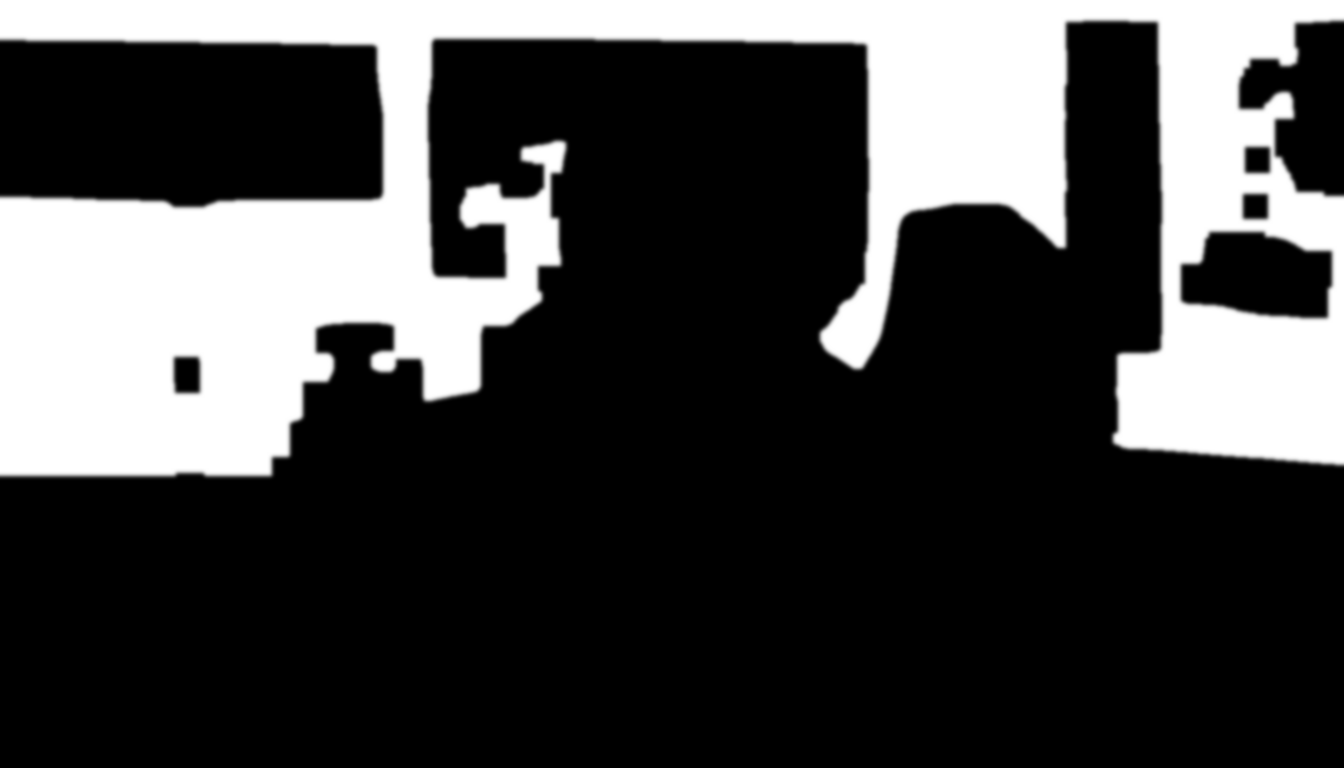
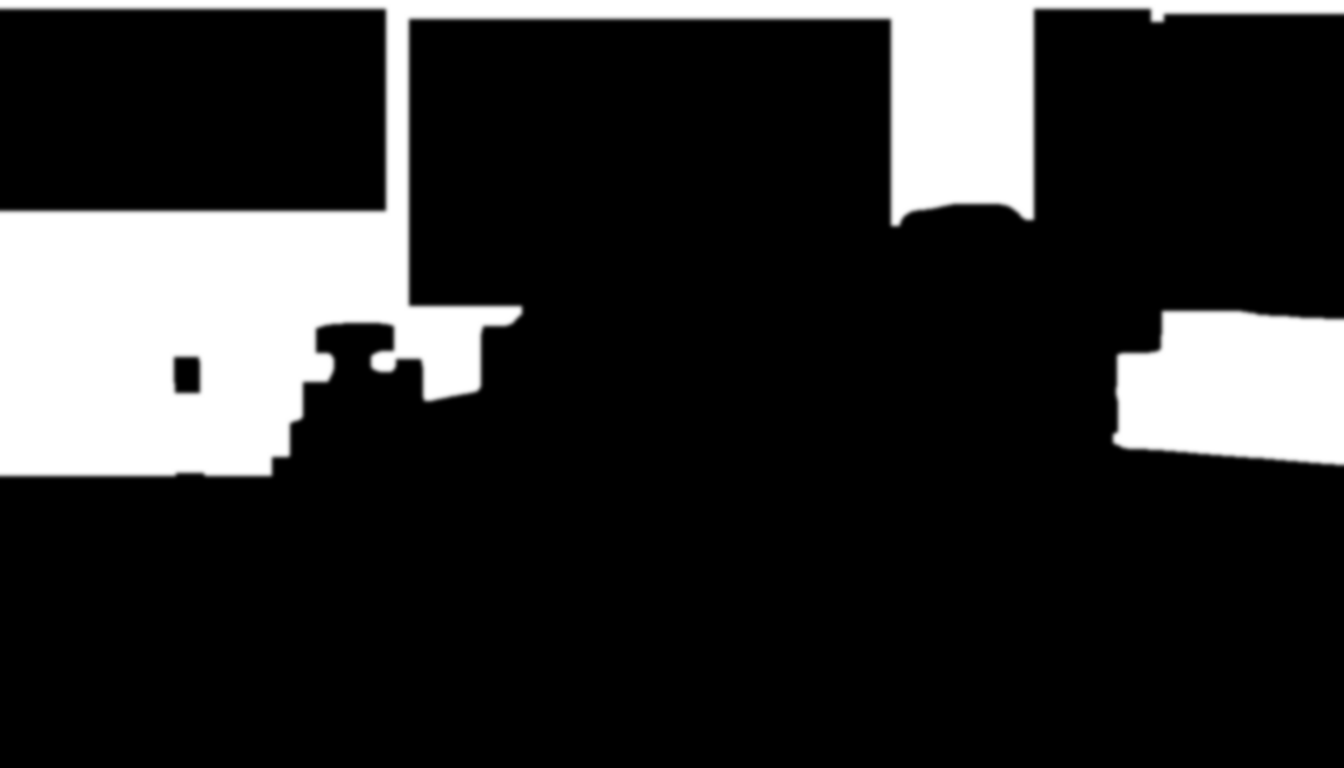
Anon: 4 files (4 modified)

Changed region(s): [[0.0, 0.0, 0.6875, 0.5], [0.75, 0.0, 1.0, 0.4375]]

diff --git a/Anon/tools/wall_mask.py b/Anon/tools/wall_mask.py
@@ -62,6 +62,23 @@ def person_mask(img_bgr: np.ndarray) -> np.ndarray:
     return cv2.resize(probs.astype(np.float32), (w, h))
 
 
+# Screens and hardware, read off a coordinate grid on the approved master.
+#
+# Hard-coded on purpose. This runs once, on one locked image, and a retoucher
+# masking a specific plate would do exactly this. The saturation/luminance
+# heuristic cannot separate them: the right-hand screen is desaturated and
+# mid-bright, so it passed the "wall" test and would have been painted over
+# with walnut - which is precisely the kind of damage this phase must not do.
+#
+# (x0, y0, x1, y1) in master-frame pixels, 1344x768.
+EXCLUDE_RECTS = [
+    (0, 15, 380, 205),        # left monitor, dark panel
+    (415, 25, 885, 300),      # centre monitor, blue content
+    (1040, 15, 1145, 275),    # speaker / tower
+    (1170, 20, 1344, 305),    # right monitor, the AI figure
+]
+
+
 def build(img_bgr: np.ndarray,
           sat_max: int = 46,
           val_lo: int = 70,
@@ -78,6 +95,11 @@ def build(img_bgr: np.ndarray,
 
     # Foreground band: desk, gear, hands. Nearer the lens, never wall.
     wall[int(h * bottom_keep):, :] = 0
+
+    # Screens and hardware. Excluded by explicit geometry, not by heuristic.
+    for (ex0, ey0, ex1, ey1) in EXCLUDE_RECTS:
+        pad = 6
+        wall[max(ey0 - pad, 0):ey1 + pad, max(ex0 - pad, 0):ex1 + pad] = 0
 
     # Person, generously grown. Bigger than the silhouette on purpose - hair is
     # where a generated texture would betray itself.

diff --git a/Anon/src/presenter/ui.py b/Anon/src/presenter/ui.py
@@ -210,7 +210,7 @@ class DropdownBar:
 
     def _draw_head(self, frame, menu: Menu) -> None:
         x, y, w, h = menu.head_rect()
-        self._panel(frame, (x, y, w, h), BG_OPEN if menu.open else BG)
+        _panel(frame, (x, y, w, h), BG_OPEN if menu.open else BG)
         cv2.rectangle(frame, (x, y), (x + w - 1, y + h - 1), EDGE, 1, cv2.LINE_AA)
         cv2.putText(frame, menu.title.upper(), (x + 10, y + 13),
                     FONT, 0.32, TITLE, 1, cv2.LINE_AA)
@@ -224,12 +224,12 @@ class DropdownBar:
 
     def _draw_list(self, frame, menu: Menu) -> None:
         x, y, w, h = menu.x, menu.y + menu.HEAD, menu.width, menu.ROW * len(menu.options)
-        self._panel(frame, (x, y, w, h), BG, alpha=0.94)
+        _panel(frame, (x, y, w, h), BG, alpha=0.94)
         cv2.rectangle(frame, (x, y), (x + w - 1, y + h - 1), EDGE, 1, cv2.LINE_AA)
         for i, option in enumerate(menu.options):
             rx, ry, rw, rh = menu.row_rect(i)
             if option.key == menu.selected:
-                self._panel(frame, (rx + 1, ry, rw - 2, rh), BG_OPEN, alpha=0.9)
+                _panel(frame, (rx + 1, ry, rw - 2, rh), BG_OPEN, alpha=0.9)
                 cv2.rectangle(frame, (rx + 1, ry + 4), (rx + 3, ry + rh - 4),
                               HILITE, -1)
             colour = TEXT if option.enabled else TEXT_DIM
